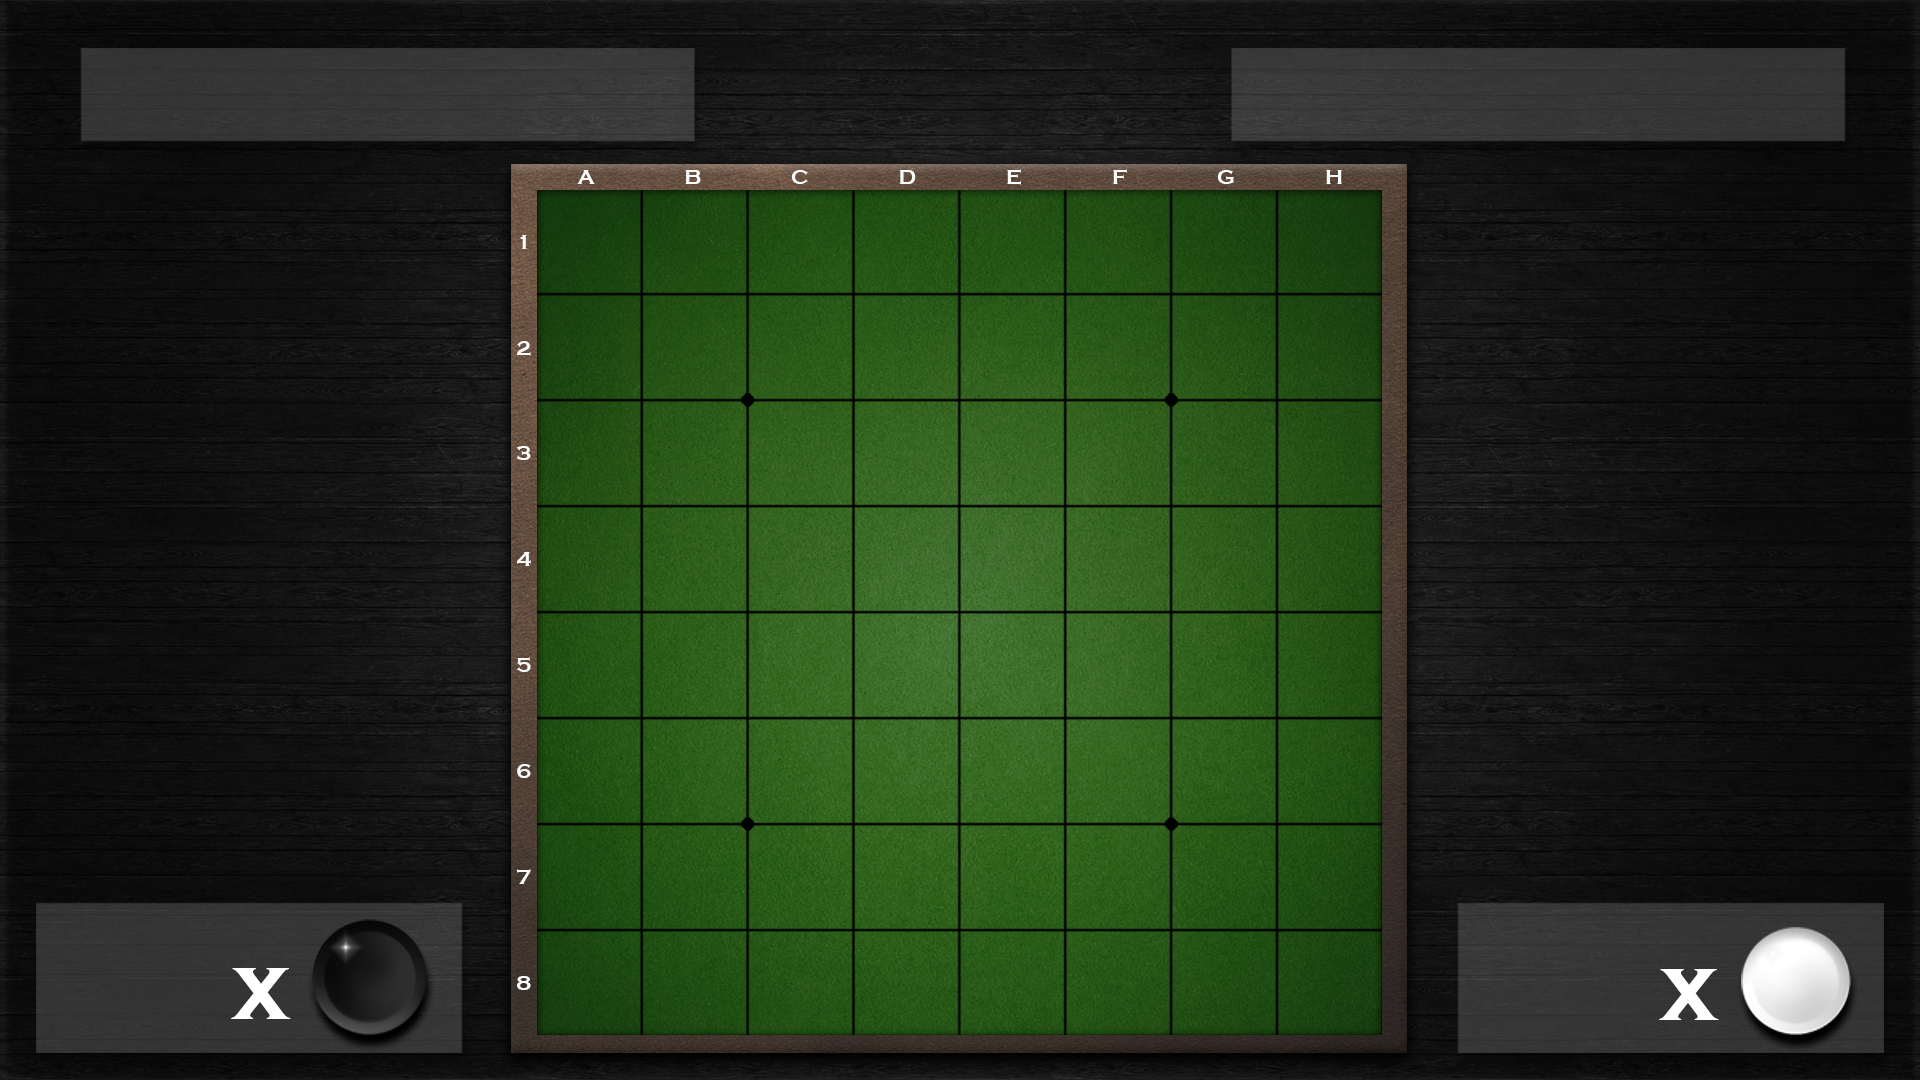
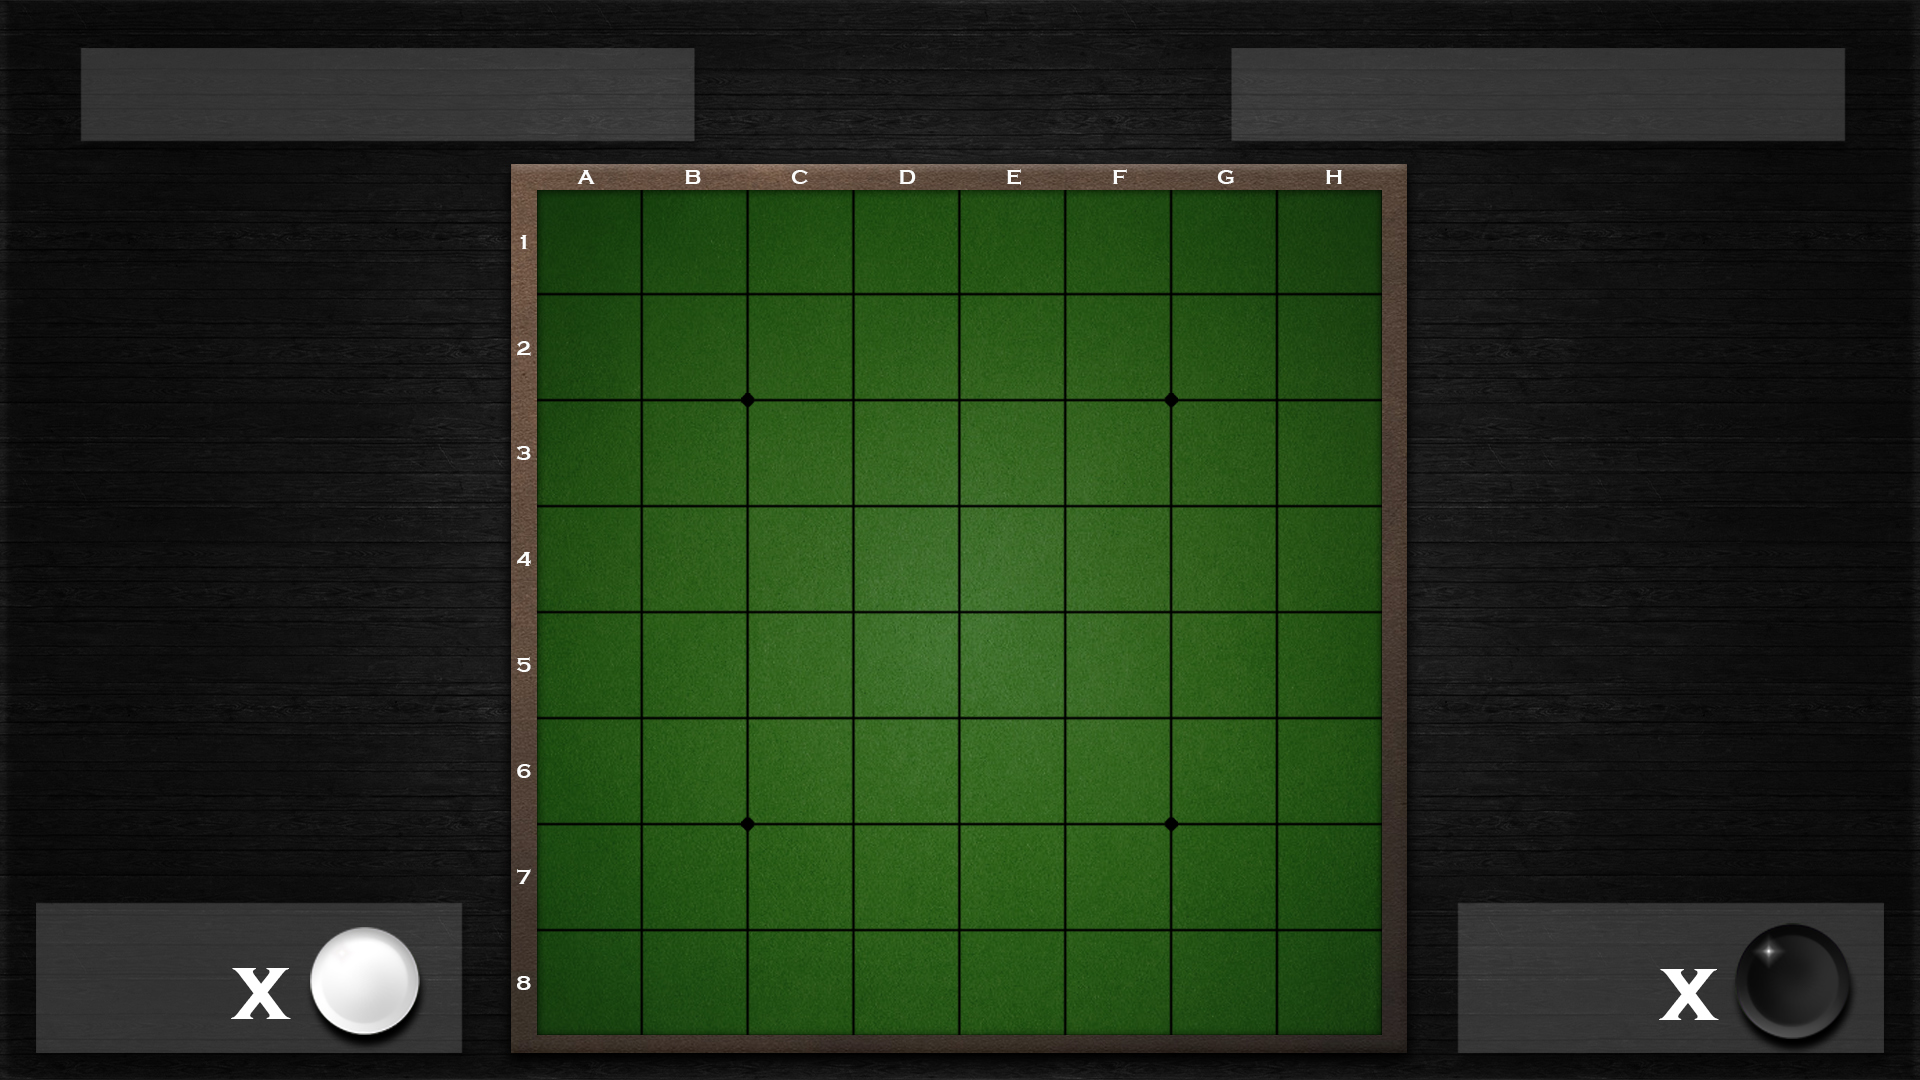
Synchronisation nombre de pions par joueur

Changed region(s): [[0.9062, 0.8556, 0.9688, 0.9778], [0.1562, 0.8556, 0.2188, 0.9778]]

diff --git a/src/gui/interfaces/style.css b/src/gui/interfaces/style.css
@@ -2,3 +2,4 @@
     -fx-background-image:url('/img/gameinterface.jpg');
     -fx-background-size: stretch, auto;
 }
+

diff --git a/src/gui/controllers/GameController.java b/src/gui/controllers/GameController.java
@@ -21,6 +21,7 @@ import javafx.scene.paint.Color;
 import javafx.scene.paint.PhongMaterial;
 import javafx.scene.shape.Cylinder;
 import javafx.scene.shape.Rectangle;
+import javafx.scene.text.Text;
 import javafx.scene.transform.Rotate;
 import javafx.stage.Stage;
 
@@ -43,6 +44,9 @@ public class GameController implements Initializable {
 
     @FXML
     Rectangle rectangleJoueur1, rectangleJoueur2;
+
+    @FXML
+    Label labelScoreJ1, labelScoreJ2;
 
     private MainController mainController;
 
@@ -92,5 +96,13 @@ public class GameController implements Initializable {
 
     public Rectangle getRectangleJoueur2() {
         return rectangleJoueur2;
+    }
+
+    public Label getLabelScoreJ1() {
+        return labelScoreJ1;
+    }
+
+    public Label getLabelScoreJ2() {
+        return labelScoreJ2;
     }
 }

diff --git a/src/gamestuff/BoardGame.java b/src/gamestuff/BoardGame.java
@@ -56,4 +56,26 @@ public class BoardGame {
         gameController.getGridPaneGame().add(new ImageView(white), 4, 4);
         gameController.getRectangleJoueur1().setVisible(true);
     }
+
+    public int calculPiecePlayer1(){
+        int score = 0;
+        for(int i = 0; i < board.length; i++){
+            for(int j = 0; j < board[i].length; j++){
+                if (board[i][j] == 0)
+                    score++;
+            }
+        }
+        return score;
+    }
+
+    public int calculPiecePlayer2(){
+        int score = 0;
+        for(int i = 0; i < board.length; i++){
+            for(int j = 0; j < board[i].length; j++){
+                if (board[i][j] == 1)
+                    score++;
+            }
+        }
+        return score;
+    }
 }

diff --git a/src/gamestuff/Game.java b/src/gamestuff/Game.java
@@ -36,9 +36,10 @@ public class Game {
             placed = boardGame.add((byte) 0, colonne, ligne);
         else
             placed = boardGame.add((byte) 1, colonne, ligne);
-
         if(placed)  // Si le pion a été placé
             switchCurrentPlayer();
+        gameController.getLabelScoreJ1().setText(String.valueOf(boardGame.calculPiecePlayer1()));
+        gameController.getLabelScoreJ2().setText(String.valueOf(boardGame.calculPiecePlayer2()));
     }
 
     private void switchCurrentPlayer(){
